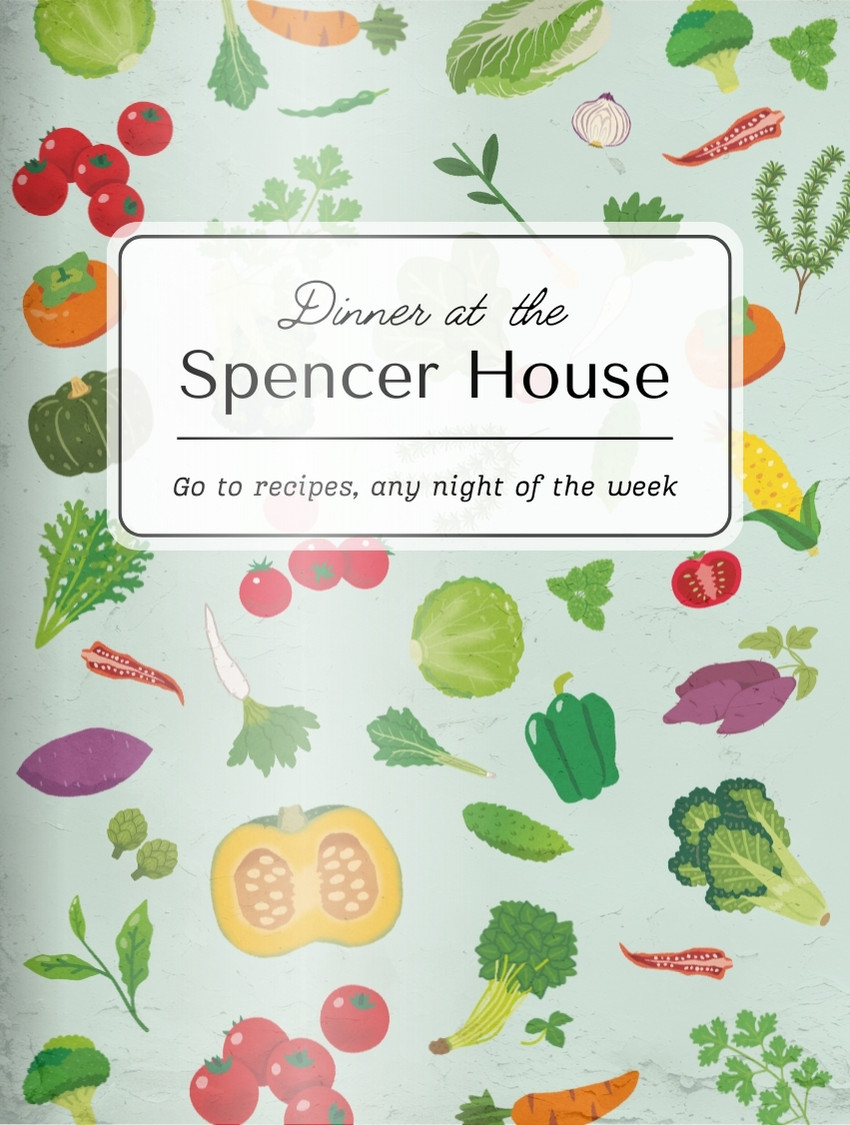
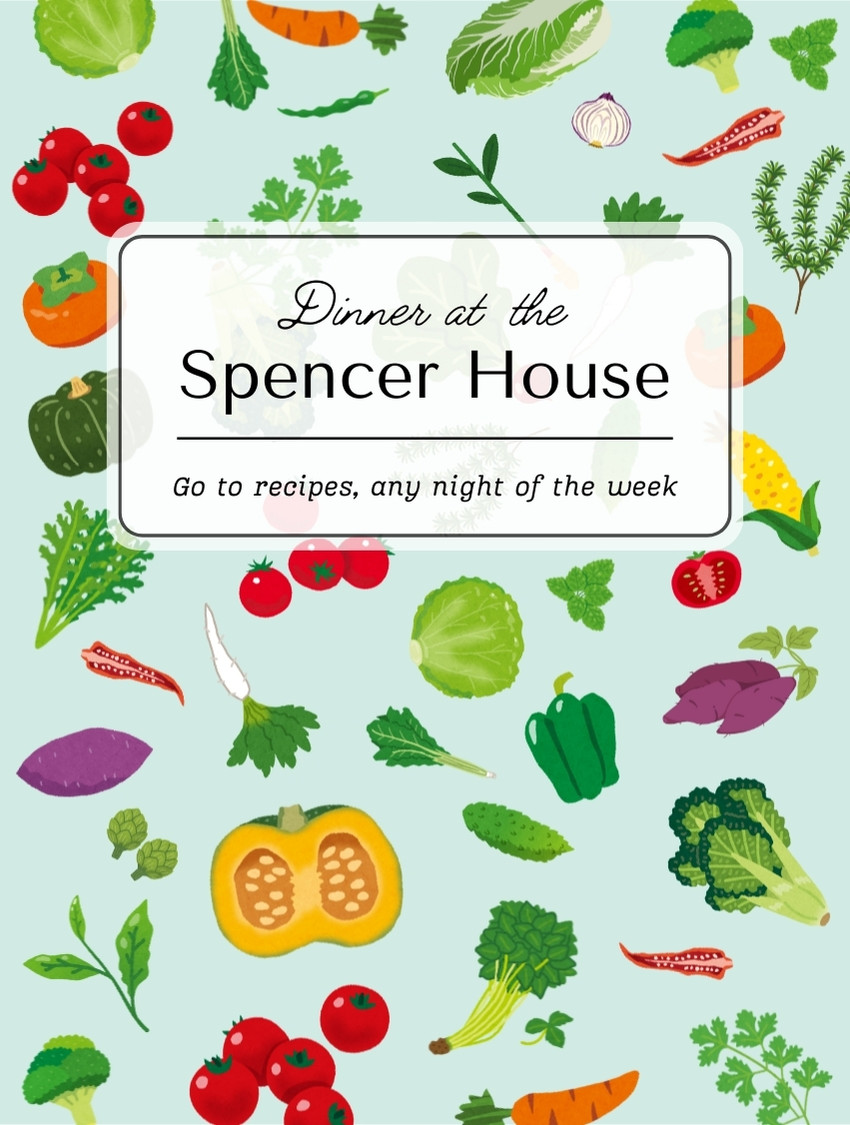
fix: Move overlay images to collections directory
- Update image paths to /collections/collection_overlay_*.png
- Remove overlay images from root public directory
- Consolidate collection-related assets in collections folder

🤖 Generated with [Claude Code](https://claude.ai/code)

diff --git a/src/app/components/CollectionCard.tsx b/src/app/components/CollectionCard.tsx
@@ -79,8 +79,8 @@ const CollectionCard = ({ coverImage, darkCoverImage, subscribed, title, subtitl
 
 					{/* Texture overlay */}
 					<picture className="absolute inset-0 w-full h-full pointer-events-none">
-						<source media="(prefers-color-scheme: dark)" srcSet="/collection_overlay_dark_mode.png" />
-						<img src="/collection_overlay_light_mode.png" alt="" className="w-full h-full object-cover" />
+						<source media="(prefers-color-scheme: dark)" srcSet="/collections/collection_overlay_dark_mode.png" />
+						<img src="/collections/collection_overlay_light_mode.png" alt="" className="w-full h-full object-cover" />
 					</picture>
 
 					<div

diff --git a/src/app/components/CollectionCardSmall.tsx b/src/app/components/CollectionCardSmall.tsx
@@ -88,8 +88,8 @@ const CollectionCardSmall = ({
 
 					{/* Texture overlay */}
 					<picture className="absolute inset-0 w-full h-full pointer-events-none">
-						<source media="(prefers-color-scheme: dark)" srcSet="/collection_overlay_dark_mode.png" />
-						<img src="/collection_overlay_light_mode.png" alt="" className="w-full h-full object-cover" />
+						<source media="(prefers-color-scheme: dark)" srcSet="/collections/collection_overlay_dark_mode.png" />
+						<img src="/collections/collection_overlay_light_mode.png" alt="" className="w-full h-full object-cover" />
 					</picture>
 
 					<div
